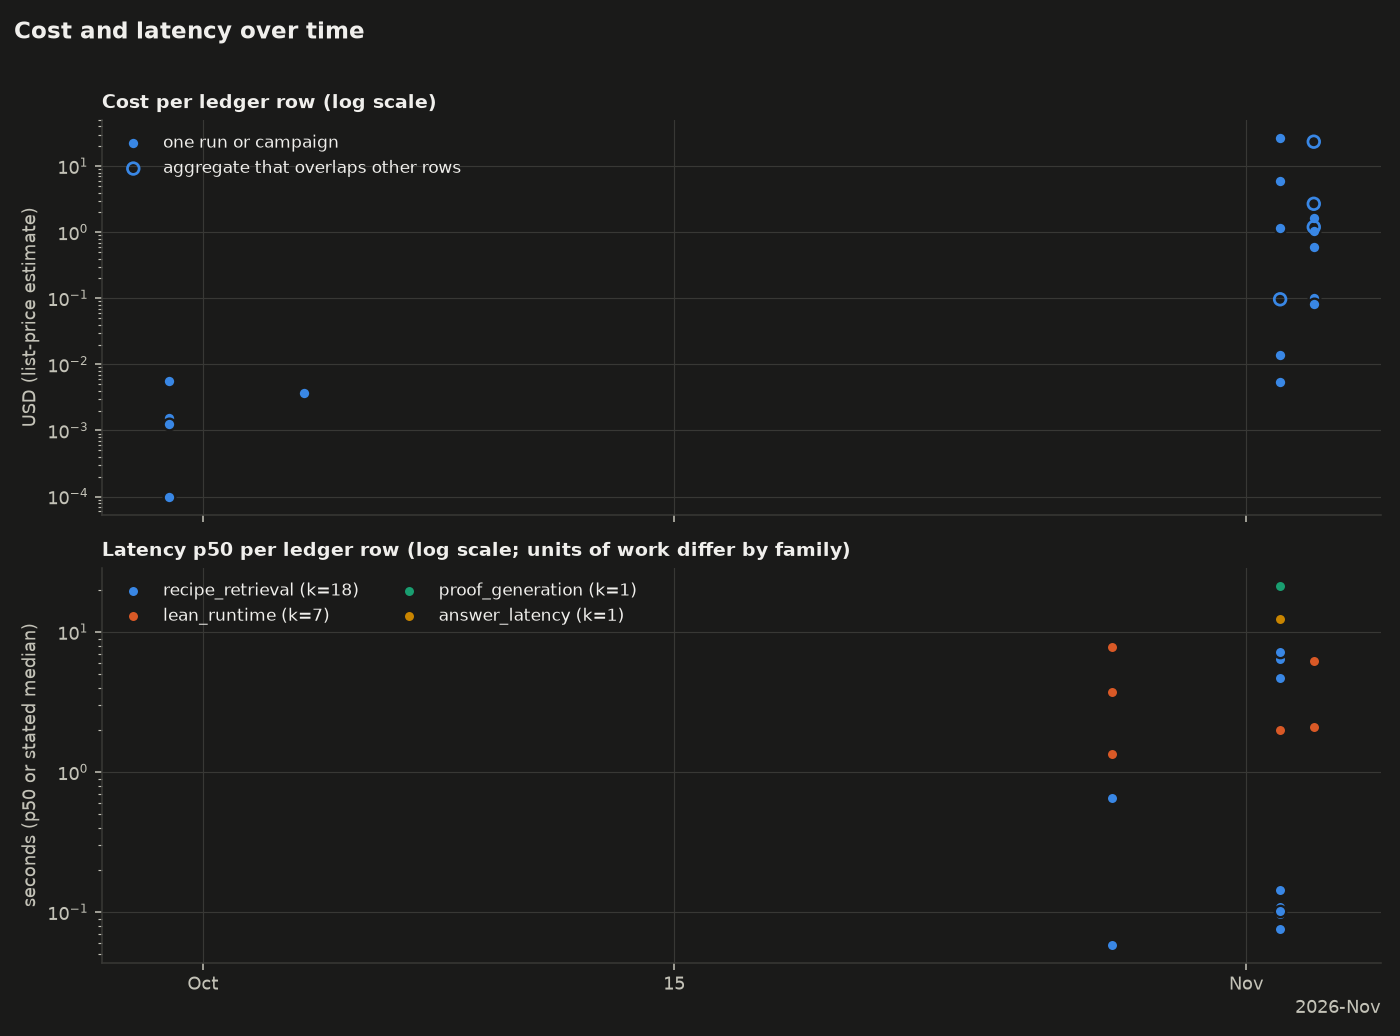
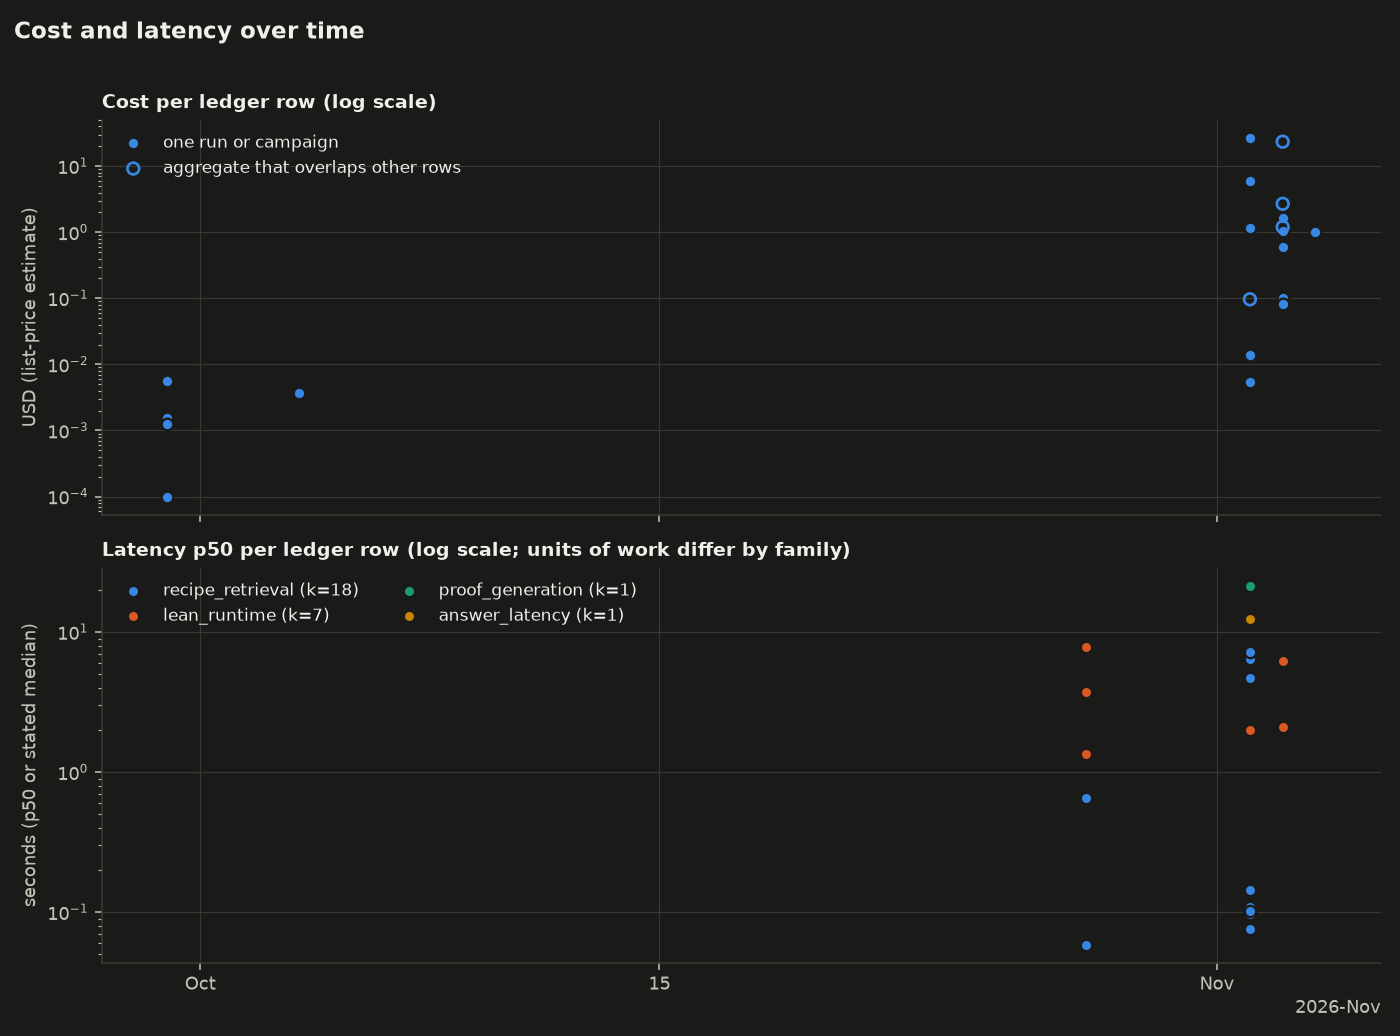
Record persisted production usage cost with provenance

diff --git a/docs/quality-observability-audit-2026-11-04.md b/docs/quality-observability-audit-2026-11-04.md
@@ -95,3 +95,7 @@ GitHubのPRのマージ情報と、マージコミットのソースを確認し
 取り込み前の270行と、取り込み後の275行を`audit_ledger.py`で検査し、形式と数値の整合性のエラーは0件でした。破損した入力を拒否する回帰テスト8件も通過しました。過去の測定値を取り込む作業であり、新しいモデルの精度測定は実行していません。既存270行は変更せず、5行の追加とともにグラフを再生成しました。
 
 取り込み前には、一時環境のpandas 3.1.0とmatplotlib 3.11.2で、変更前と変更後のスクリプトから6枚ずつグラフを生成し、対応するPNGのSHA-256がすべて一致しました。成功率と費用・所要時間の図も目視しました。費用を`Infinity`にした破損台帳では、グラフを書き出す前に終了コード1で拒否することも確認しました。
+
+## 本番の使用量・費用の別集計
+
+その後の読み取り調査で、[料金確認](pricing-review-2026-11-04.md)に2つの使用量台帳の523呼び出しと費用推計を記録したため、運用スナップショットとして1行を追加しました。最終的な台帳は276行です。この行に成功率はなく、モデルの精度や1問あたりの完全な原価を示しません。元の270行と、取り込んだ5行を保持しています。
